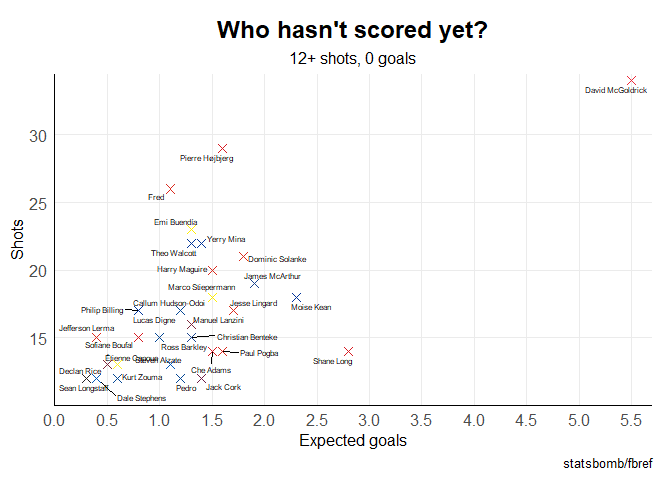
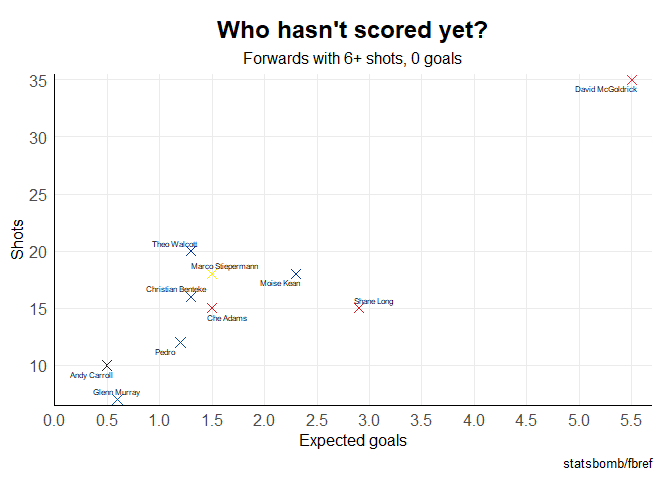
knit

diff --git a/R/fbref/fbref.md b/R/fbref/fbref.md
@@ -1,10 +1,12 @@
 
 ### Southampton plots
 
-![](fbref_files/figure-gfm/plots-sfc-1.png)<!-- -->![](fbref_files/figure-gfm/plots-sfc-2.png)<!-- -->![](fbref_files/figure-gfm/plots-sfc-3.png)<!-- -->![](fbref_files/figure-gfm/plots-sfc-4.png)<!-- -->![](fbref_files/figure-gfm/plots-sfc-5.png)<!-- -->![](fbref_files/figure-gfm/plots-sfc-6.png)<!-- -->
+![](fbref_files/figure-gfm/plots-sfc-1.png)<!-- -->![](fbref_files/figure-gfm/plots-sfc-2.png)<!-- -->![](fbref_files/figure-gfm/plots-sfc-3.png)<!-- -->![](fbref_files/figure-gfm/plots-sfc-4.png)<!-- -->![](fbref_files/figure-gfm/plots-sfc-5.png)<!-- -->
 
-### Premier League plots
+### Premier League player plots
 
 ![](fbref_files/figure-gfm/plots-epl-players-1.png)<!-- -->
+
+### Premier League team plots
 
 ![](fbref_files/figure-gfm/plots-epl-teams-1.png)<!-- -->![](fbref_files/figure-gfm/plots-epl-teams-2.png)<!-- -->![](fbref_files/figure-gfm/plots-epl-teams-3.png)<!-- -->![](fbref_files/figure-gfm/plots-epl-teams-4.png)<!-- -->![](fbref_files/figure-gfm/plots-epl-teams-5.png)<!-- -->
